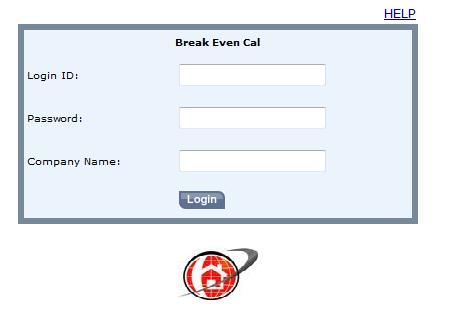
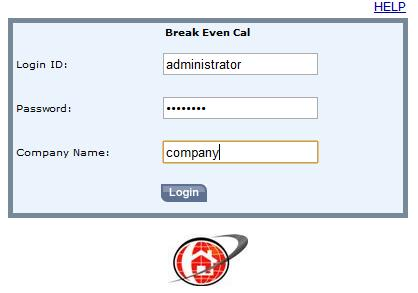
updated with changes

diff --git a/trunk/BreakEvenCalc/Help.html b/trunk/BreakEvenCalc/Help.html
@@ -23,7 +23,7 @@ body{
 <body> <form>
 <h1>Brek Even Calculator Help</h1>
 
-<h3>User Type : Admin User</h3>
+<h3>User Type : Administrator User</h3>
   <center><img src="images/adminlogin.jpg"  alt="" /> </center>
 
 <h4> Enter Username ,Password,CompanyName. It will display list of records.	</h4>
@@ -34,7 +34,9 @@ body{
 <h2>User Type : Non Admin User</h2>
 <h4>Enter Username, password and Company Name</h4>
  <center><img src="images/userlogintest.jpg"  /></center>
-<h4>Once user is logged in it will display BreakEven calculation page.</h4>
+<h4>Once user is logged in it will display Break Even list created by user.</h4>
+<center><img src="images/userlist.jpg"  /></center>
+<h4>To add new record click on 'Add'. It will display breakeven calculation page</h4>
 <center><img src="images/userlogin.jpg"  /></center>
 <h4>In that page enter the following input fields in numeric form:
 Total Sale,Costof Sale, Average Sale,Conversion Rate,Time Period,JobName </h4>
@@ -45,7 +47,7 @@ Total Sale,Costof Sale, Average Sale,Conversion Rate,Time Period,JobName </h4>
  Then click on Cal total .That will calculate total expense and it will be set in cost field of previous page.</h4>
 <h4> Click on BreakEven button to calculate breakeven for entered value.</h4>
  <center><img src="images/calculationtest.jpg"  /></center>
-<h4>To save record in db click on Save button.</h4>
+<h4>To save record in db click on Save button. User can view record by clicking on record.</h4>
 <center><img src="images/save record.jpg"  /></center>
  <h4>Logout is provided to logout from the application</h4>
 

diff --git a/trunk/BreakEvenCalc/application/controllers/breakeven.php b/trunk/BreakEvenCalc/application/controllers/breakeven.php
@@ -31,7 +31,16 @@ if(($this->session->userdata('username')==''))redirect('login');
 		$data['results'] = $this->breakeven_model->get_books($config['per_page'],$this->uri->segment(3));}
 	else 
 	{
-		$data['addURL']="calculation";
+		if($this->uri->segment(3)=='')
+		{
+			$data['addURL']="calculation";
+		}
+		else 
+		{
+			$data['addURL']="../../calculation";			
+		}
+		
+		
 		$companyId=$this->session->userdata('companyName');
 		$data['results'] = $this->breakeven_model->get_filter_breakeven($companyId,$config['per_page'],$this->uri->segment(3));
 	}
@@ -57,11 +66,11 @@ else
 			//				echo $row['be_seq'];
 			//$row['be_seq']=redirect('welcome/test');
 			$this->table->add_row(anchor('calculation/input/'.$row['be_seq'],$row['be_seq'], 'Link ' .$row['be_seq']), $row['be_total_sale'], $row['be_cost_sale'], $row['be_fix_cost'],
-			$row['be_avg_sale'],$row['be_conv_rate'],date('d-m-Y', strtotime($row['be_date'])),$row['be_create_by'],$row['be_time_period']); //Add each result row into table, 
+			$row['be_avg_sale'],$row['be_conv_rate'],date('d-m-Y', strtotime($row['be_date'])),$row['be_create_by'],$row['be_time_period'],$row['be_company']); //Add each result row into table, 
 					
 		}
 
-		$this->table->set_heading('RecordID',	'Total Sale',	'Cost of Sale',	'Fix Cost',	'Average Sale',	'Conversion Rate',	'Date',	'Create By','Time Period');
+		$this->table->set_heading('RecordID',	'Total Sale',	'Cost of Sale',	'Fix Cost',	'Average Sale',	'Conversion Rate',	'Date',	'Create By','Time Period','Company');
 		//	$this->table->set_heading('ID', 'Title', 'Author', 'Description');
 
 		//To remove existing data

diff --git a/trunk/BreakEvenCalc/application/views/loginview.php b/trunk/BreakEvenCalc/application/views/loginview.php
@@ -54,15 +54,15 @@ Break Even Cal
 <tbody>
 <tr>
 <td>Login ID: </td>
-<td><input id="_id0:ID" type="text" name="myusername" maxlength="10" /></td>
+<td><input id="_id0:ID" type="text" name="myusername" maxlength="20" /></td>
 </tr>
 <tr>
 <td> Password: </td>
-<td><input id="_id0:Password" type="password" name="mypassword" value="" maxlength="10" /></td>
+<td><input id="_id0:Password" type="password" name="mypassword" value="" maxlength="20" /></td>
 </tr>
 <tr>
 <td> Company Name: </td>
-<td><input id="_id0:Company" type="text" name="mycompany" maxlength="10" /></td>
+<td><input id="_id0:Company" type="text" name="mycompany" maxlength="20" /></td>
 </tr>
 <tr>
 <td><div></div></td>

diff --git a/trunk/BreakEvenCalc/application/views/CalculationForm.php b/trunk/BreakEvenCalc/application/views/CalculationForm.php
@@ -832,7 +832,7 @@ function isNumeric(){
 					<tr>
 						<td><span style="font-size: 13px">FIXED COST(TIME PERIOD) </span></td>
 						<td><input id="tpFixedCost" name="tpFixedCost" type="text" readonly="readonly"
-							value="<?php echo $tpFixedcost; ?>" maxlength="10" tabindex="6" /></td>
+							value="<?php echo $tpFixedcost; ?>" style="background-color: #ebf3fd" maxlength="10" tabindex="6" /></td>
 						<td><input id="tpFixedcostQuerterly" name="tpFixedcostQuerterly"
 							type="text" value="<?php echo $tpFixedcostQuerterly; ?>"
 							readonly="readonly" style="background-color: #ebf3fd"

diff --git a/trunk/BreakEvenCalc/application/models/calculation_model.php b/trunk/BreakEvenCalc/application/models/calculation_model.php
@@ -10,7 +10,7 @@ class calculation_model extends CI_Model{
 		
 		$this->load->database();
 
-		if($user=='adminUser'){
+		if($user=='administrator'){
 			$query = $this->db->get_where('break_even_data',array('be_seq'=>$id));			
 		}
 		else{
